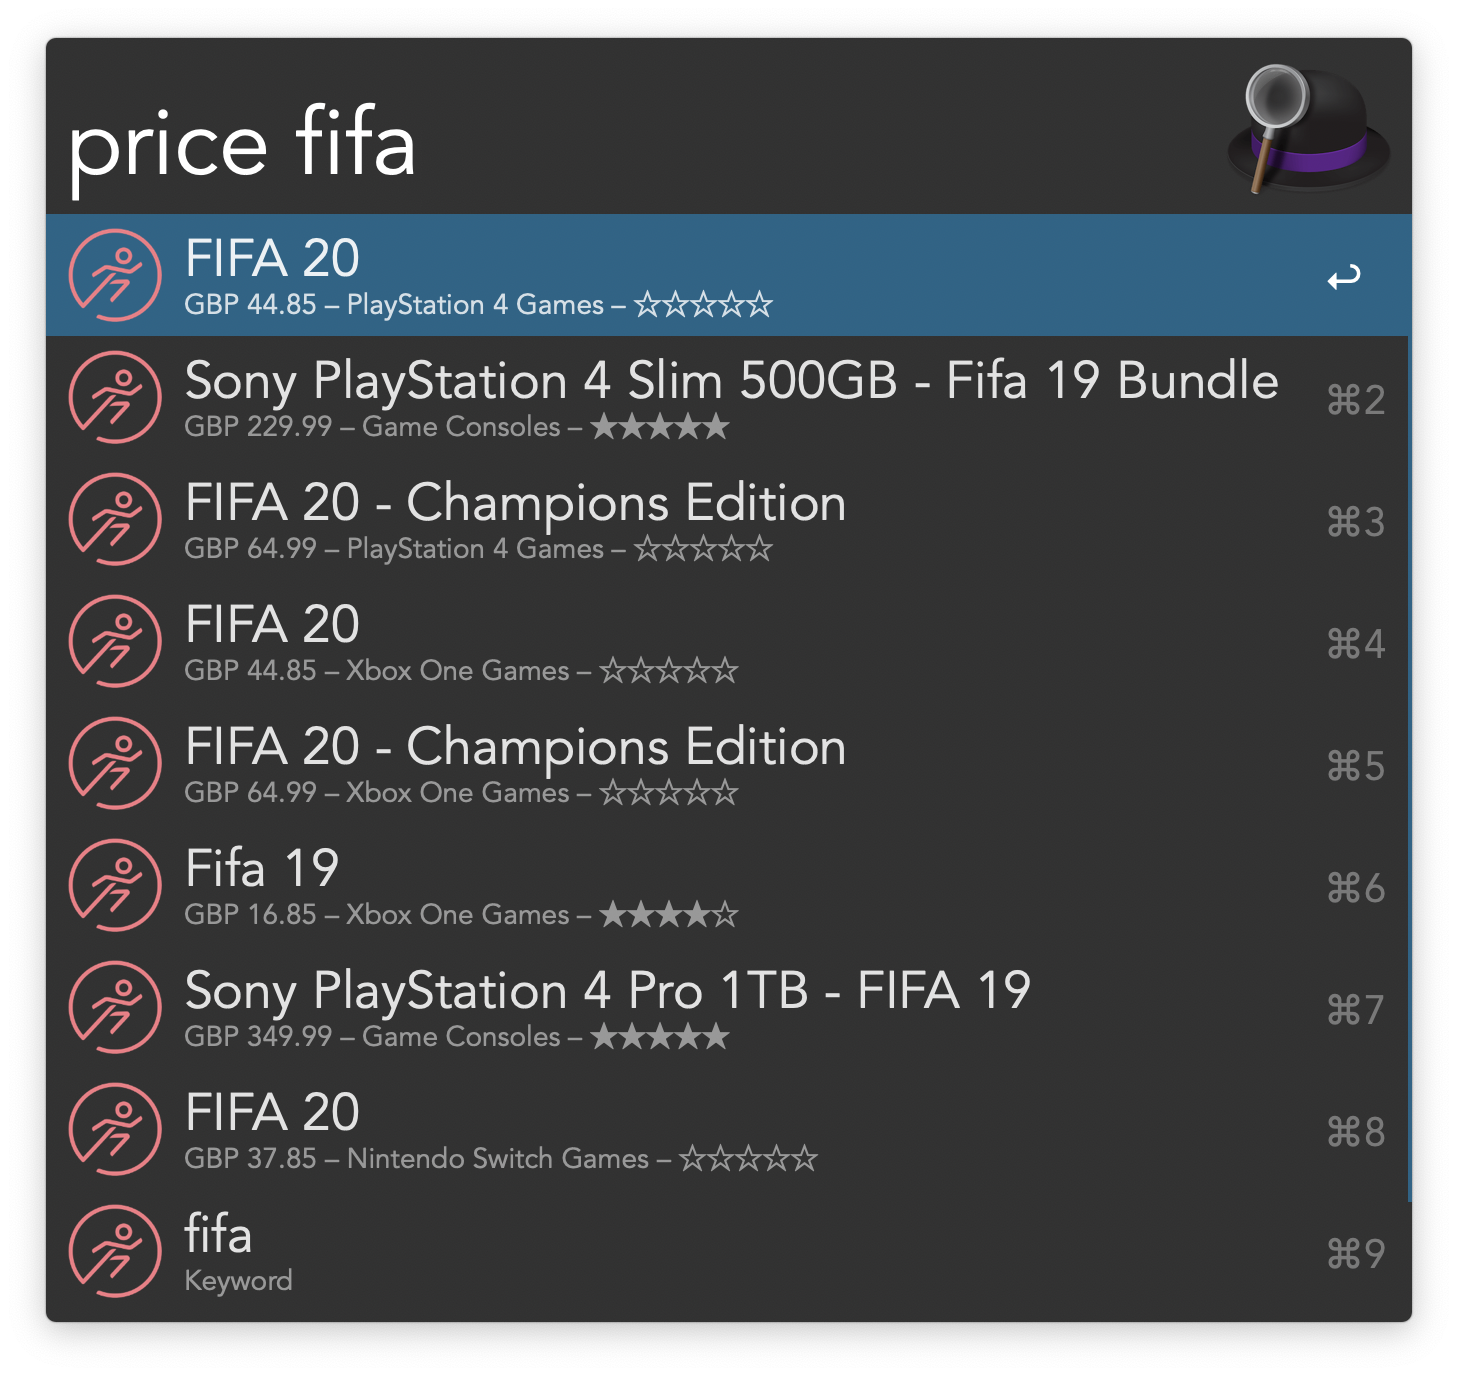
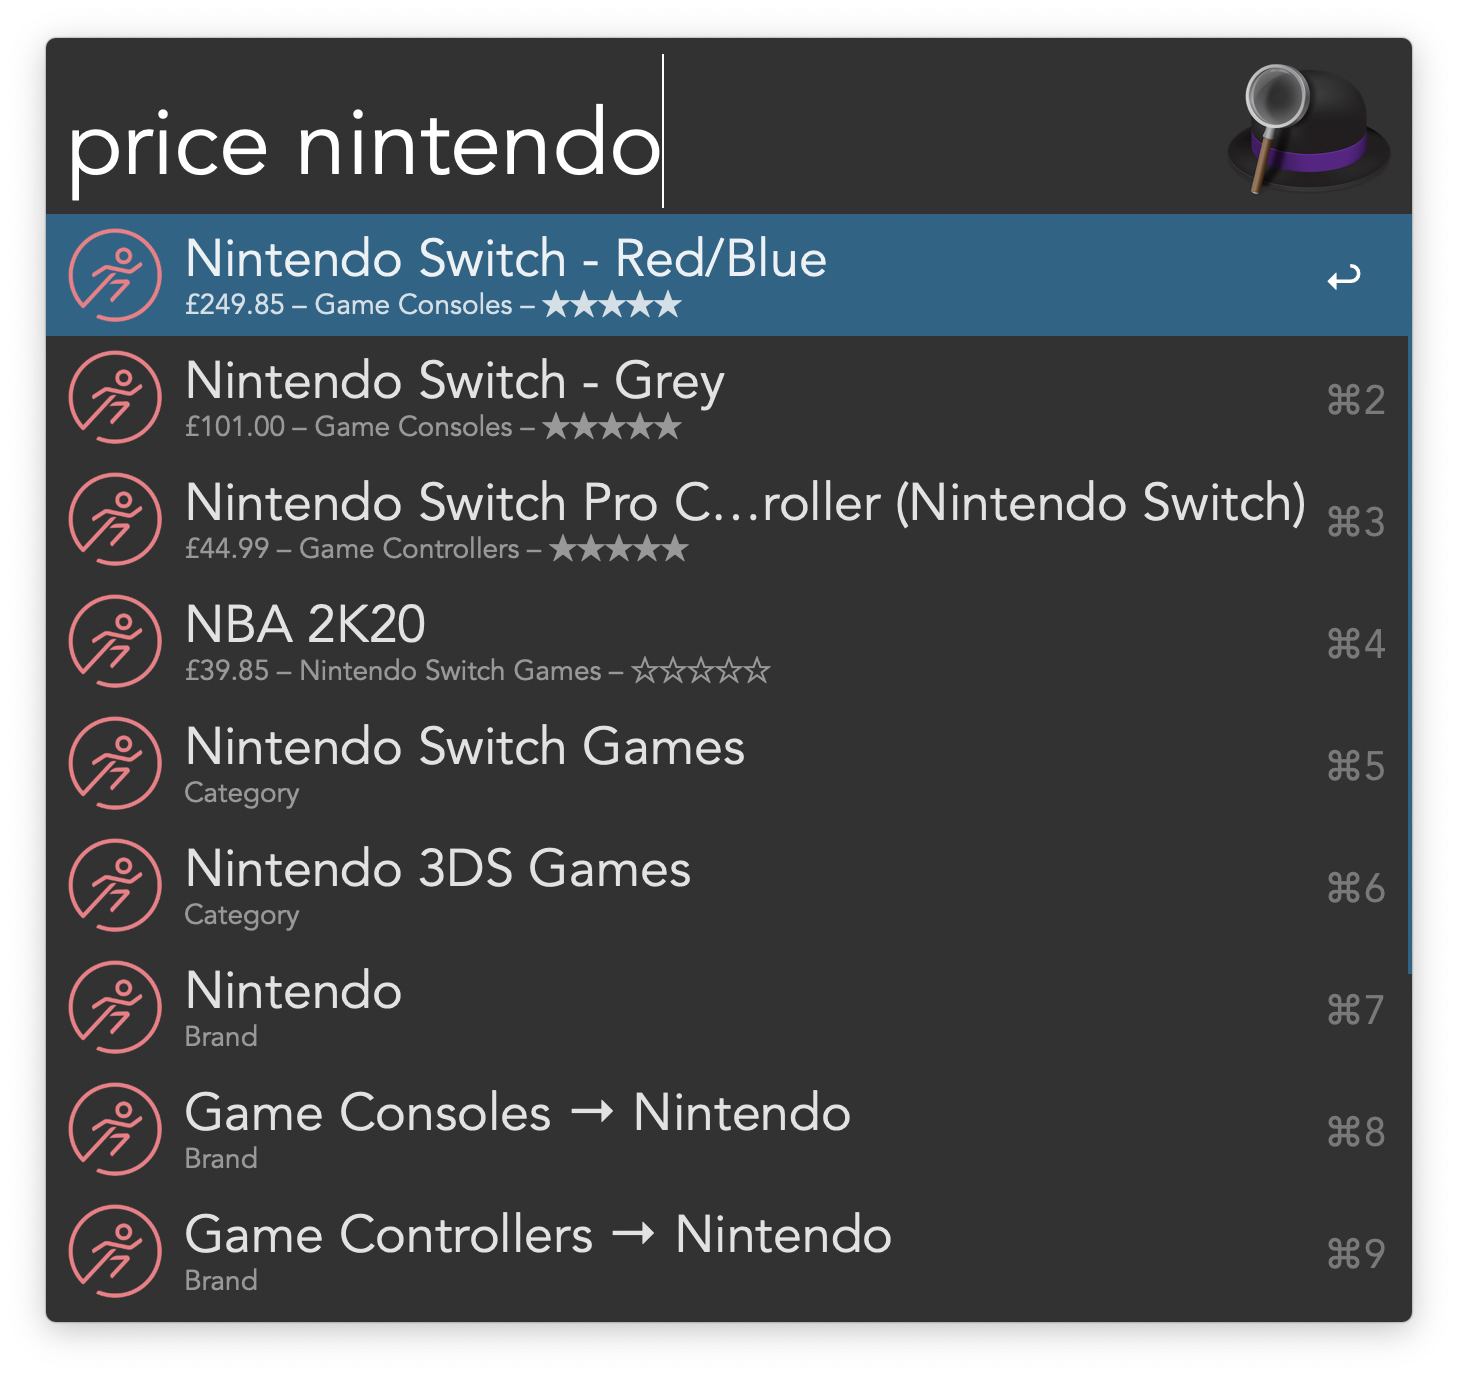
Nicer formatting and fix for API change

diff --git a/src/filter.py b/src/filter.py
@@ -1,19 +1,19 @@
 # encoding: utf-8
 
 import os
-import sys
 import string
+import sys
+
 from workflow import Workflow3, web
 from workflow.util import utf8ify
 
 SUGGEST_URL = "https://www.pricerunner.com/public/search/suggest/{}"
-DEFAULT_COUNTRY = "uk"
+COUNTRY = os.getenv('COUNTRY').lower() or "uk"
 GITHUB_SLUG = "sniarn/alfred-pricerunner-workflow"
 
 
 def suggest(query):
-    country = os.getenv('COUNTRY') or DEFAULT_COUNTRY
-    r = web.get(url=SUGGEST_URL.format(country), params={'q': query})
+    r = web.get(url=SUGGEST_URL.format(COUNTRY), params={'q': query})
     r.raise_for_status()
     return r.json()
 
@@ -24,17 +24,28 @@ def get_stars(product):
     return string.replace('☆☆☆☆☆', '☆', '★', maxreplace=rounded)
 
 
+def get_locale():
+    # There is a bug in Python that prevents us from easily getting the user's
+    # current locale. We use the COUNTRY workflow parameter instead.
+    return {
+        'dk': 'da_DK',
+        'uk': 'en_GB',
+        'se': 'sv_SE',
+    }[COUNTRY]
+
+
 def add_product_item(product):
     title = utf8ify(product['name'])
-    subtitle = '{} {} – {} – {}'.format(
-            product['cheapestPrice']['currency'],
-            product['cheapestPrice']['amount'],
+    from babel.numbers import format_currency
+    cheapest_price = utf8ify(format_currency(
+        float(product['lowestPrice']['amount']),
+        product['lowestPrice']['currency'],
+        locale=get_locale()))
+    subtitle = '{} – {} – {}'.format(
+            cheapest_price,
             utf8ify(product['categoryName']),
             get_stars(product))
-    largetext = '{} – {} {}'.format(
-        title,
-        product['cheapestPrice']['currency'],
-        product['cheapestPrice']['amount'])
+    largetext = '{} – {}'.format(title, cheapest_price)
     wf.add_item(
         title=title,
         subtitle=subtitle,
@@ -80,8 +91,9 @@ def main(wf):
 
 if __name__ == u"__main__":
     wf = Workflow3(
-         update_settings={'github_slug': GITHUB_SLUG},
-         help_url='https://github.com/{}'.format(GITHUB_SLUG))
+        libraries=['./lib'],
+        update_settings={'github_slug': GITHUB_SLUG},
+        help_url='https://github.com/{}'.format(GITHUB_SLUG))
     if wf.update_available:
         wf.start_update()
     else:
